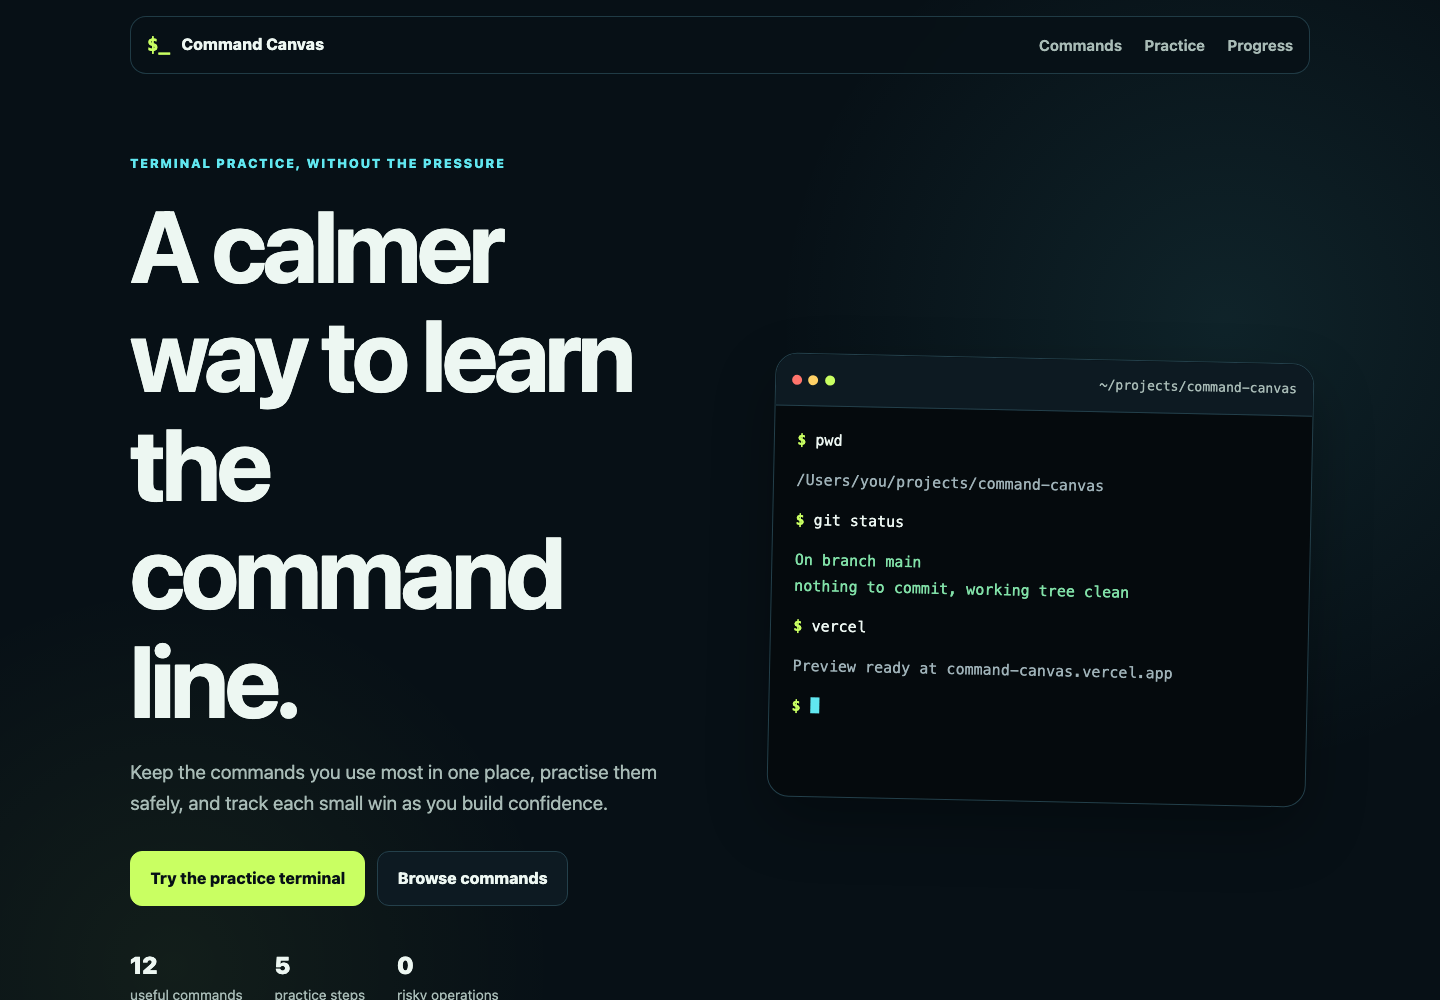
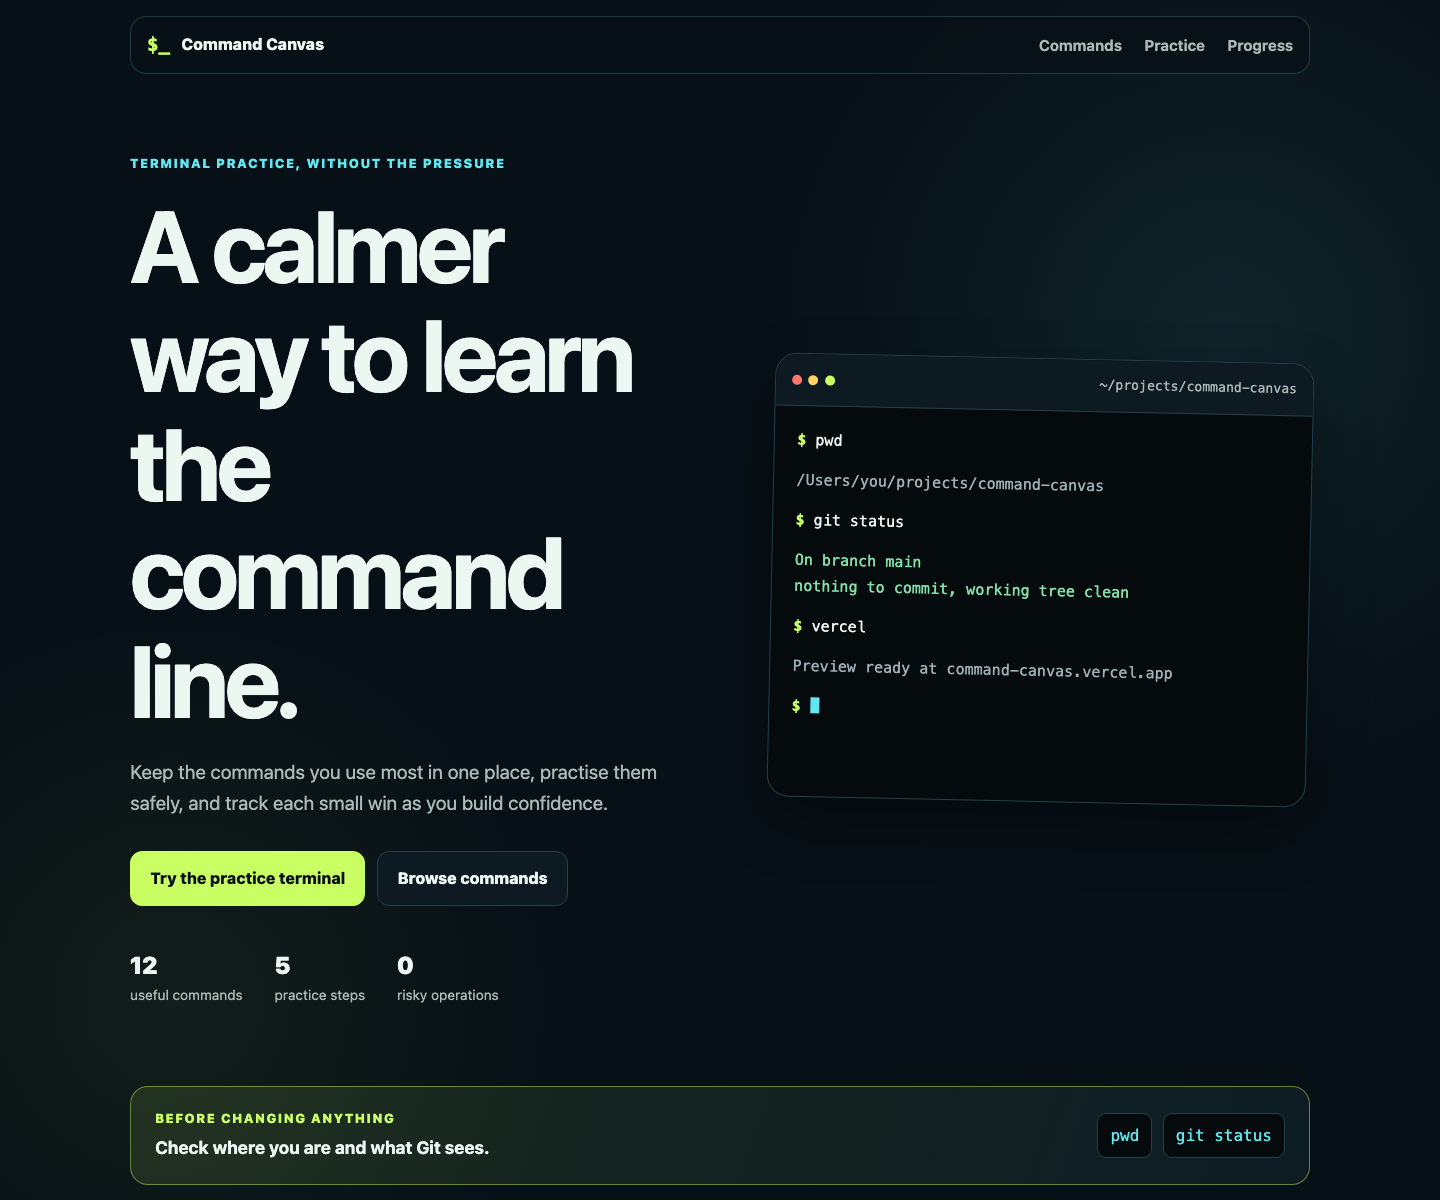
Add a terminal safety tip

diff --git a/styles.css b/styles.css
@@ -140,6 +140,22 @@ h3 { margin-bottom: 0.8rem; font-size: 1.35rem; }
 .cursor { display: inline-block; width: 9px; height: 1.1em; background: var(--cyan); vertical-align: -0.15em; animation: blink 1s steps(2) infinite; }
 @keyframes blink { 50% { opacity: 0; } }
 
+.safety-note {
+  display: flex;
+  align-items: center;
+  justify-content: space-between;
+  gap: 2rem;
+  margin-bottom: 2rem;
+  padding: 1.4rem 1.5rem;
+  border: 1px solid rgba(201, 255, 98, 0.45);
+  border-radius: 18px;
+  background: linear-gradient(110deg, rgba(201, 255, 98, 0.1), rgba(97, 231, 240, 0.06));
+}
+.safety-note .eyebrow { margin-bottom: 0.25rem; color: var(--lime); }
+.safety-note strong { font-size: 1.1rem; }
+.safety-commands { display: flex; flex-wrap: wrap; gap: 0.65rem; }
+.safety-commands code { padding: 0.55rem 0.75rem; border: 1px solid var(--border); border-radius: 9px; background: #050a0d; color: var(--cyan); }
+
 .section { padding: 7rem 0; border-top: 1px solid rgba(36, 64, 75, 0.68); }
 .section-heading { display: flex; align-items: end; justify-content: space-between; gap: 2rem; margin-bottom: 2rem; }
 .section-heading h2 { max-width: 750px; margin-bottom: 0; }
@@ -244,6 +260,7 @@ footer a { color: var(--text); font-weight: 750; }
   .search-field input { width: 100%; }
   .command-grid, .checklist { grid-template-columns: 1fr; }
   .split-section { gap: 2rem; }
+  .safety-note { align-items: flex-start; flex-direction: column; }
   footer { flex-direction: column; }
 }
 

diff --git a/index.html b/index.html
@@ -63,6 +63,17 @@
         </div>
       </section>
 
+      <aside class="safety-note" aria-label="Terminal safety reminder">
+        <div>
+          <p class="eyebrow">Before changing anything</p>
+          <strong>Check where you are and what Git sees.</strong>
+        </div>
+        <div class="safety-commands" aria-label="Suggested safety commands">
+          <code>pwd</code>
+          <code>git status</code>
+        </div>
+      </aside>
+
       <section class="section" id="commands" aria-labelledby="commands-title">
         <div class="section-heading">
           <div>
